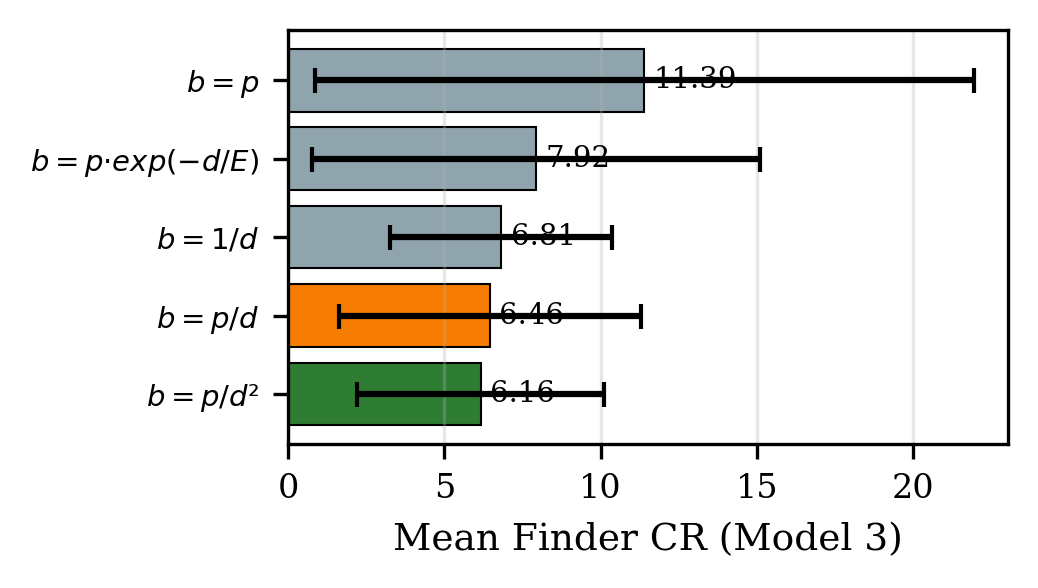
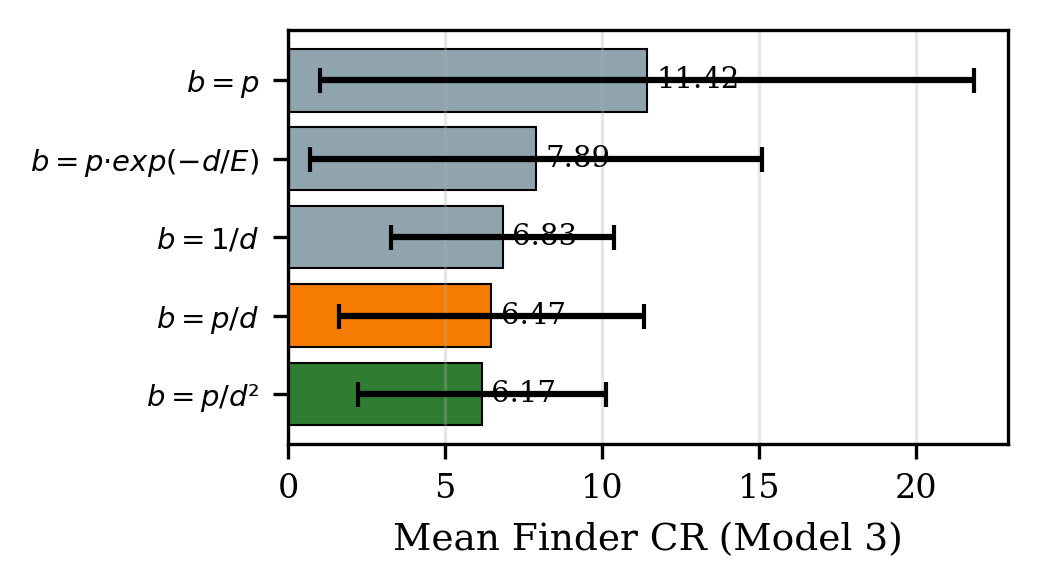
ran the simulation and checked the SIR model

diff --git a/main.py b/main.py
@@ -201,23 +201,41 @@ def run_auction(robot_bids):
     """
     Sequential Single-Item (SSI) auction (Koenig et al., 2006).
 
+    Items are auctioned one at a time. In each round:
+      1. Every unassigned robot submits its highest bid for any available item.
+      2. The globally highest bid wins: that robot gets that item.
+      3. Both are removed; remaining robots re-bid on remaining items.
+    Repeat until all robots are assigned or no items remain.
+
     Each robot has a ranked list of (node, bid_value, distance).
-    Highest-bid robot wins its preferred node; losers re-bid on remaining.
     Returns: dict {robot_id: (node_id, distance)}
     """
     assigned = {}
-    taken = set()
+    taken_nodes = set()
+    assigned_robots = set()
 
-    robots = sorted(robot_bids.keys(),
-                   key=lambda r: robot_bids[r][0][1] if robot_bids[r] else -1,
-                   reverse=True)
+    # Build a dict of {robot: list of (node, bid_value, dist)} for fast lookup
+    # Lists are already sorted descending by bid_value
+    remaining = {r: list(bids) for r, bids in robot_bids.items() if bids}
 
-    for r in robots:
-        for node, bv, d in robot_bids[r]:
-            if node not in taken:
-                assigned[r] = (node, d)
-                taken.add(node)
-                break
+    while remaining:
+        # Each unassigned robot proposes its best available item
+        best_r, best_node, best_bv, best_d = None, None, -1, 0
+        for r, bids in remaining.items():
+            # Skip taken nodes to find this robot's best available item
+            for node, bv, d in bids:
+                if node not in taken_nodes:
+                    if bv > best_bv:
+                        best_r, best_node, best_bv, best_d = r, node, bv, d
+                    break  # only consider top available bid per robot
+
+        if best_r is None:
+            break  # no valid bids remain
+
+        # Assign winner
+        assigned[best_r] = (best_node, best_d)
+        taken_nodes.add(best_node)
+        del remaining[best_r]
 
     return assigned
 
